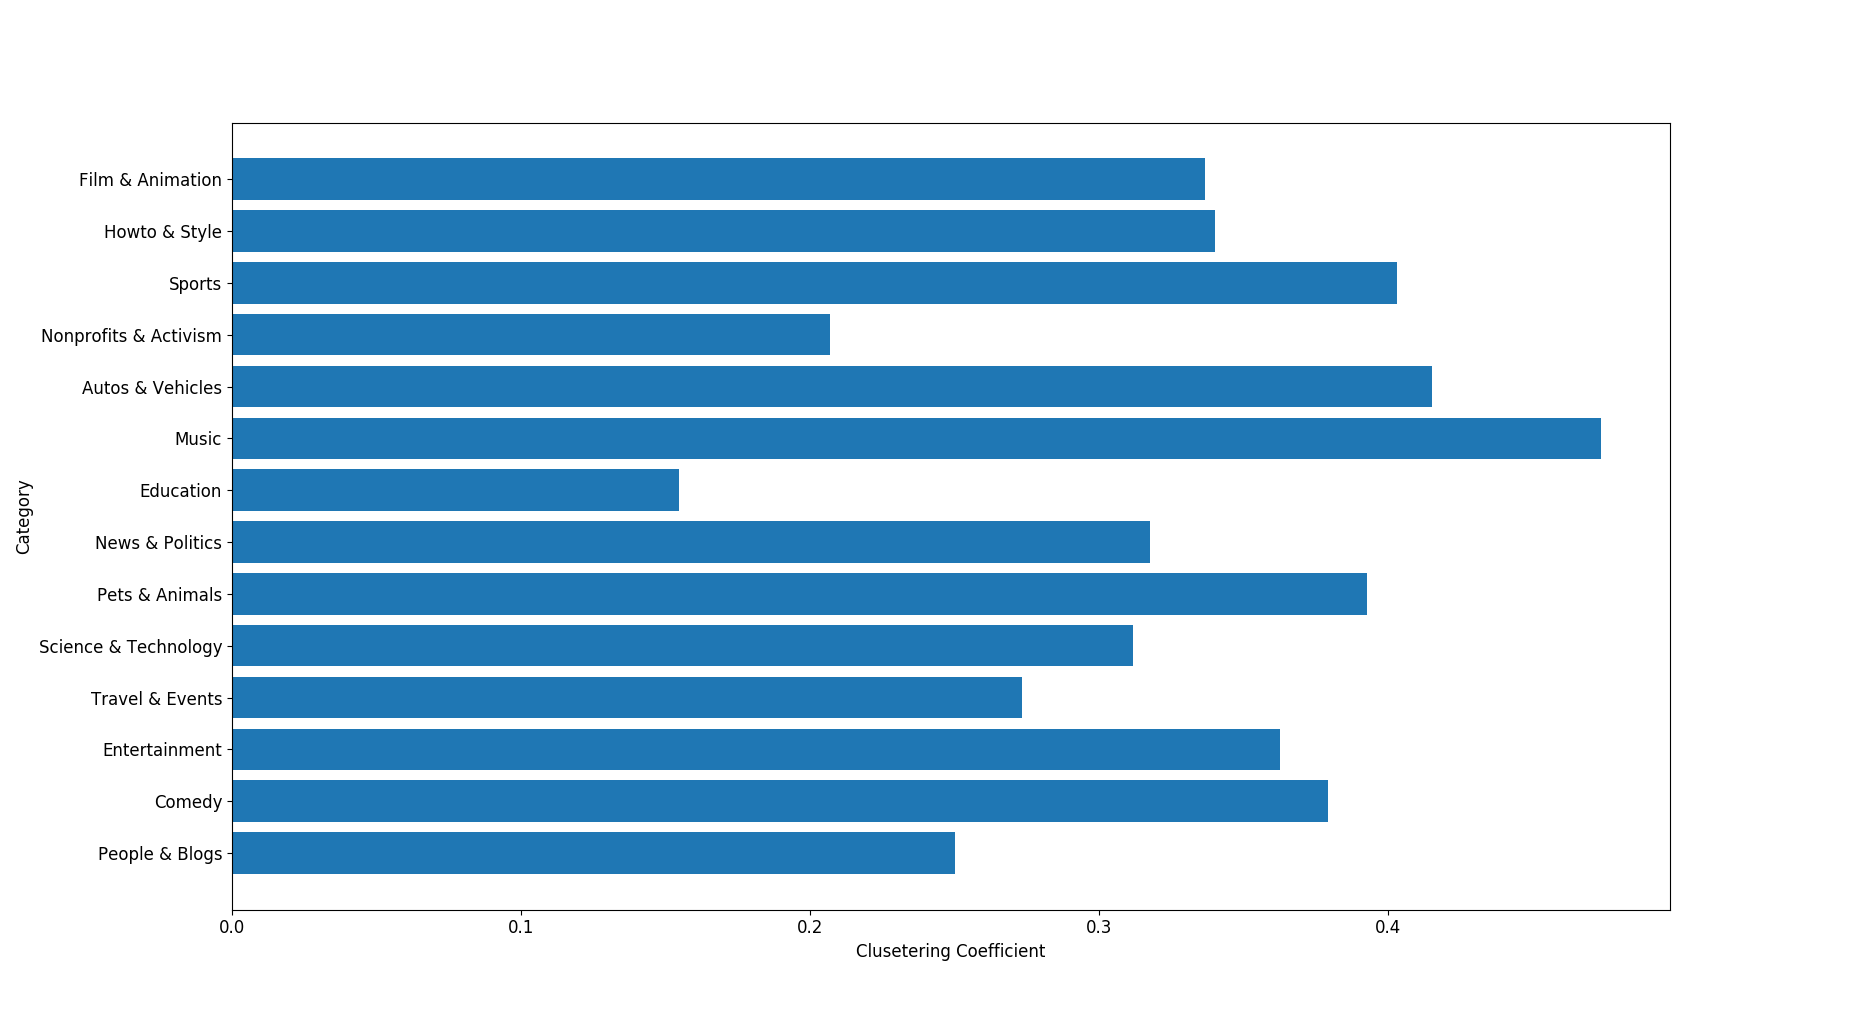
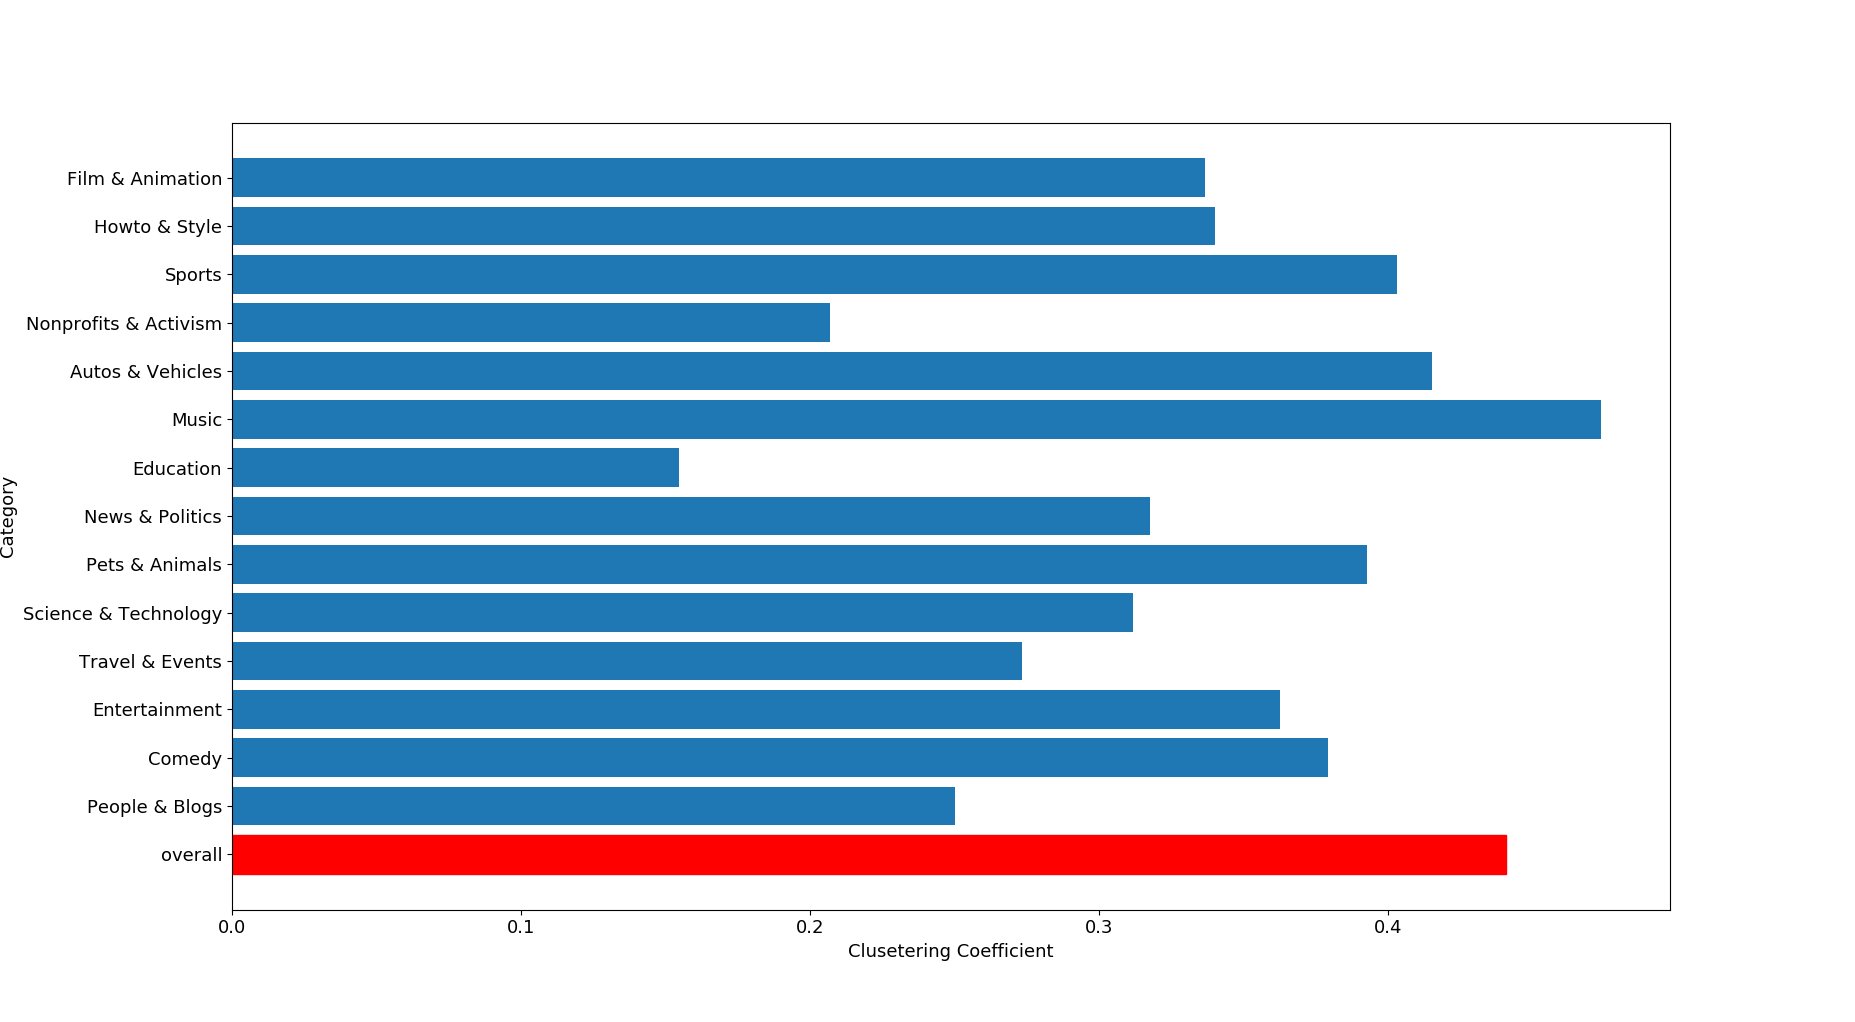
updated font size in graphs

diff --git a/graph_analysis.py b/graph_analysis.py
@@ -22,6 +22,7 @@ def degree_analysis():
   cnt_scc = [i.GetVal2()/float(scc_n) for i in deg_to_count]
 
   # # plt.loglog(deg_graph, cnt_graph, label = 'entire graph')
+  matplotlib.rcParams.update({'font.size': 13})
   plt.loglog(deg_scc, cnt_scc, label = 'SCC')
   plt.xlabel('in-degree')
   plt.ylabel('proportion of nodes')
@@ -58,7 +59,6 @@ def degree_analysis():
   print "11-15", cdf_graph[15] - cdf_graph[10], cdf_scc[15] - cdf_scc[10]
   print "16-20", cdf_graph[20] - cdf_graph[15], cdf_scc[20] - cdf_scc[15]
 
-# degree_analysis()
 
 def clustering_coefficient():
   print "Entire graph", snap.GetClustCf(graph, -1)
@@ -67,7 +67,6 @@ def clustering_coefficient():
   snap.PlotClustCf(graph, "entire_graph", "Entire graph - clustering coefficient")
   snap.PlotClustCf(scc, "scc", "SCC - clustering coefficient")
 
-# clustering_coefficient()
 
 def category_analysis():
   inFile = open("newattribs.txt", 'r')
@@ -85,8 +84,8 @@ def category_analysis():
       else:
         category_nodes[category] = set(node)
 
-  x = []
-  y = []
+  x = ['overall']
+  y = [snap.GetClustCf(scc, -1)]
   for category in category_nodes:
     print category
     nodes = category_nodes[category]
@@ -108,10 +107,14 @@ def category_analysis():
     # print
   
   xticks = np.arange(len(x))
-  matplotlib.rcParams.update({'font.size': 12})
-  plt.barh(xticks, y, align='center')
+  matplotlib.rcParams.update({'font.size': 13})
+  bars = plt.barh(xticks, y, align='center')
+  bars[0].set_color('r')
   plt.yticks(xticks, x)
   plt.xlabel('Clusetering Coefficient')
   plt.ylabel('Category')
   plt.show()
+
+# degree_analysis()
+# clustering_coefficient()
 category_analysis()
